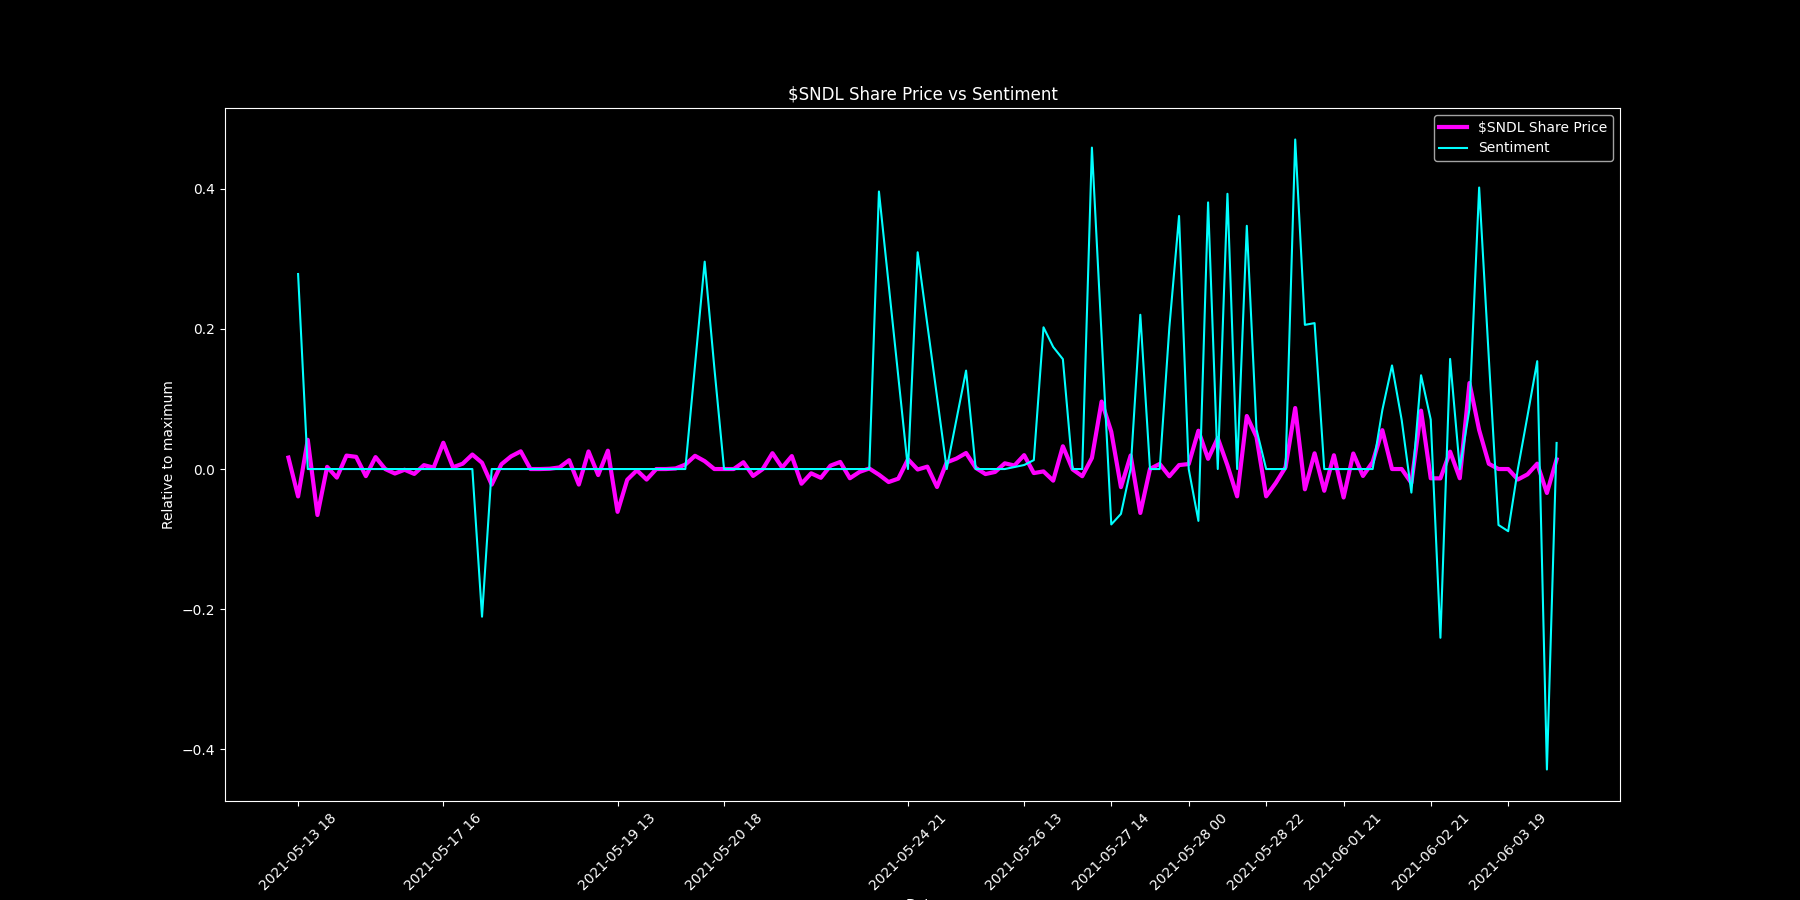
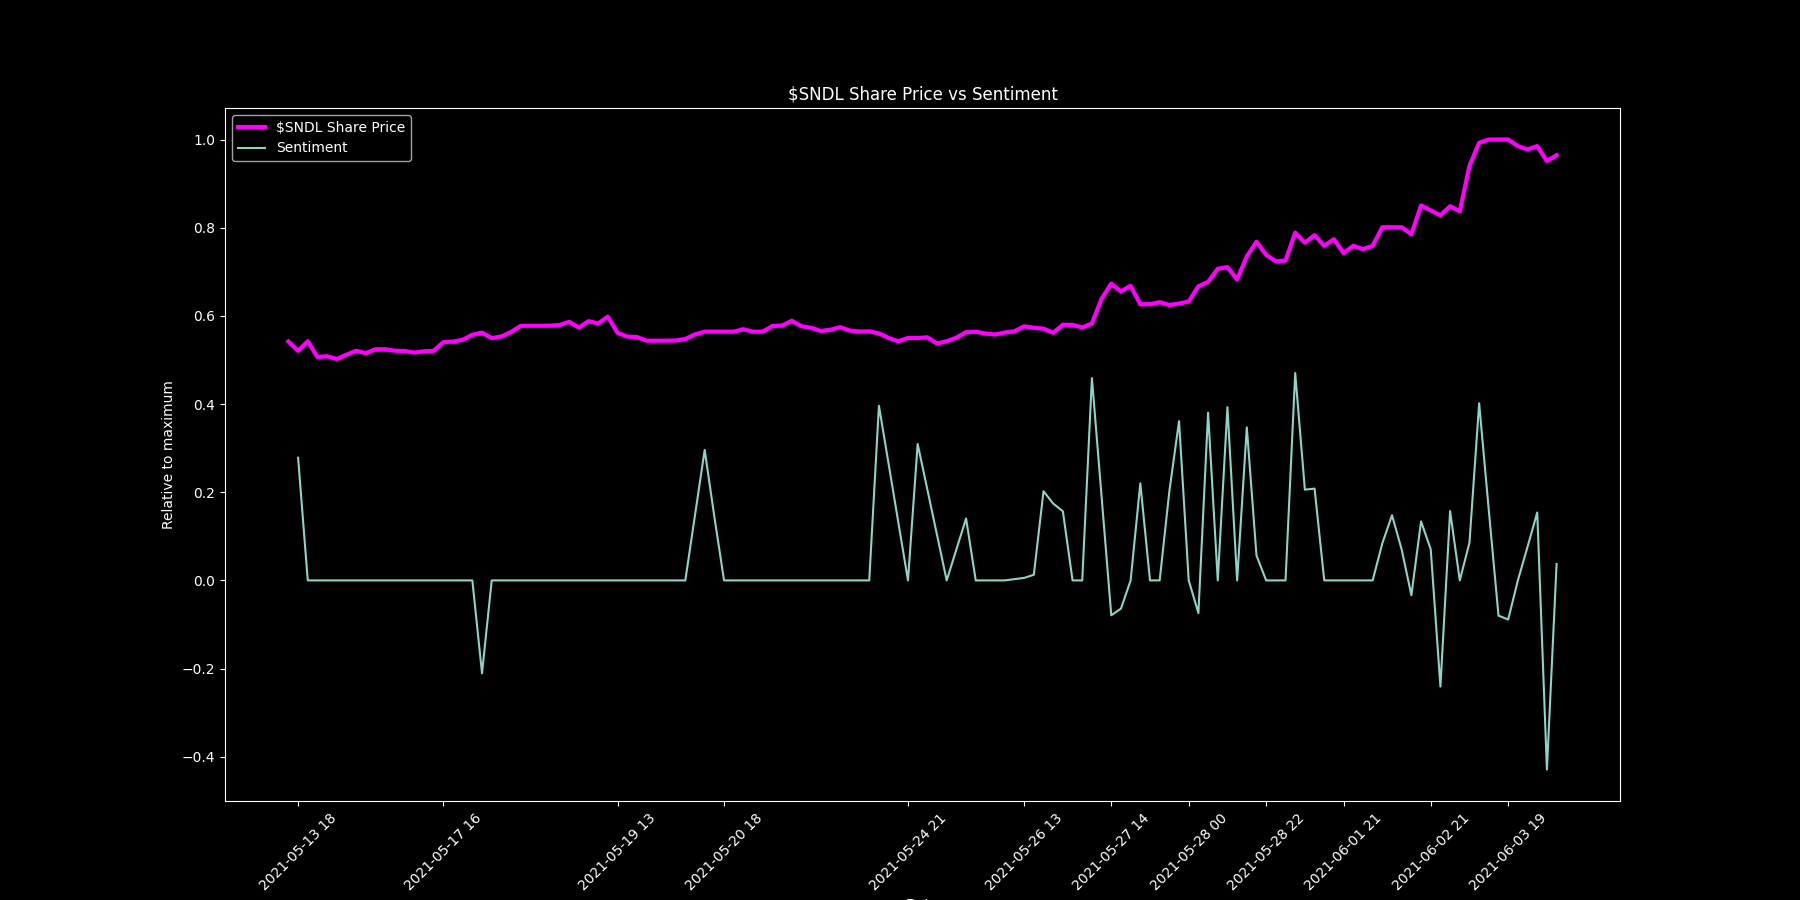
added stock price graphs

diff --git a/src/sentiment.py b/src/sentiment.py
@@ -84,9 +84,9 @@ def stock_plot_data(ticker):
 
 
 
-def display(data, ticker):
+def display_rel_max(data, ticker):
 	stock_x, stock_y = stock_plot_data(ticker)
-	stock_y = [(stock_y[i] - stock_y[i-1])/stock_y[i-1] for i in range(1, len(stock_y))]
+	stock_y = [i/max(stock_y) for i in stock_y][1:]
 
 	data['scores'] = data.iloc[:, 0].apply(text_to_score)
 	data.drop(data.columns[0], axis=1, inplace=True)
@@ -115,8 +115,43 @@ def display(data, ticker):
 	plt.savefig(f'../images/price_vs_sentiment/{ticker}_price_vs_sent.png')
 
 
-tickers = ['AMC', 'GME', 'BB', 'SNDL', 'TLRY', 'NOK']
-for ticker in tickers:
+def display_percent(data, ticker):
+	stock_x, stock_y = stock_plot_data(ticker)
+	stock_y = [(stock_y[i] - stock_y[i-1])/stock_y[i-1] for i in range(1, len(stock_y))]
 
-	d = open_json(ticker)
-	display(d, ticker)
+	data['scores'] = data.iloc[:, 0].apply(text_to_score)
+	data.drop(data.columns[0], axis=1, inplace=True)
+	data_t = data.T 
+
+	x = data.index.values.tolist()[::-1]
+	new_x = []
+	for date in x:
+		if date in stock_x:
+			new_x.append(date)
+
+	new_y = []
+	for date in new_x:
+		new_y.append(data_t.loc['scores', date])
+	new_y = [i/max(new_y) for i in new_y]
+
+	plt.style.use("dark_background")
+	fig, ax = plt.subplots(figsize=(18, 9))
+	plt.plot(stock_x, stock_y, color='fuchsia', linewidth = 3, label = f'${ticker} Share Price % Change')
+	plt.plot(new_x, new_y, label = f'Sentiment % Change')
+	plt.xlabel("Date")
+	plt.xticks(new_x[::8], rotation = 45)
+	plt.ylabel(f"% change")
+	plt.title(f'${ticker} Share Price vs Sentiment % Change')
+	plt.legend()
+	#plt.show()
+	plt.savefig(f'../images/price_vs_sentiment_per/{ticker}_price_vs_sent.png')
+
+
+if __name__ == '__main__':
+
+	tickers = ['AMC', 'GME', 'BB', 'SNDL', 'TLRY', 'NOK']
+	for ticker in tickers:
+
+		d = open_json(ticker)
+		#display_rel_max(d, ticker)
+		display_percent(d, ticker)
